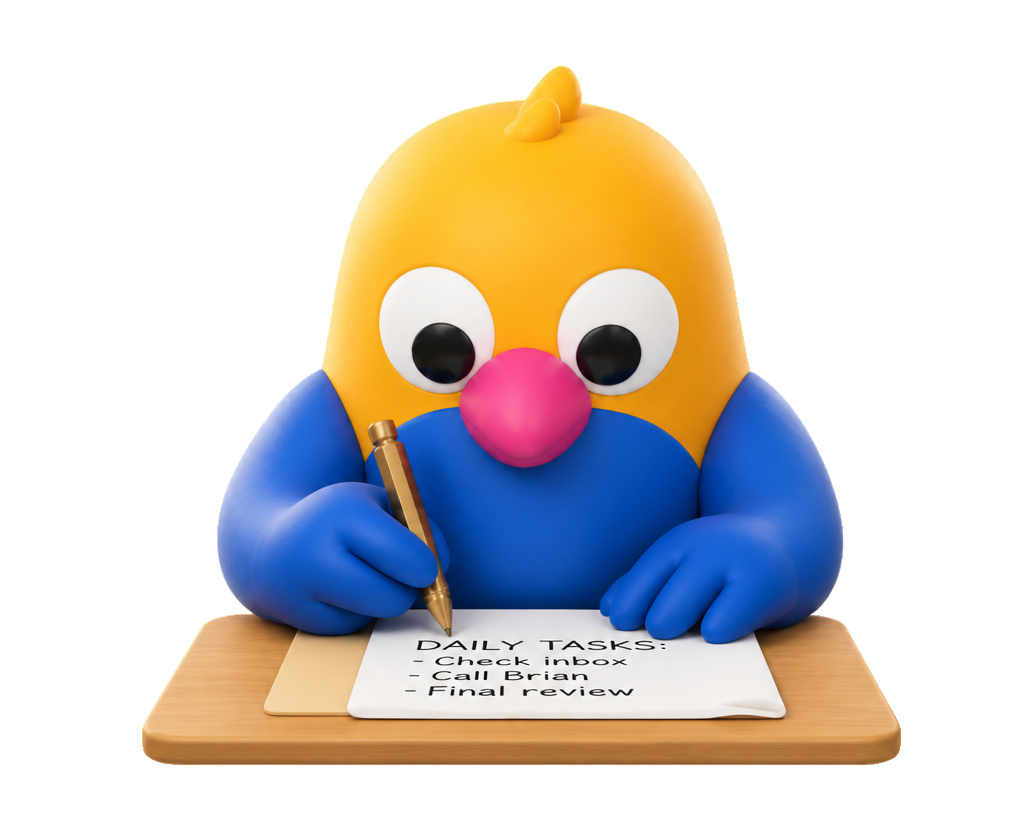
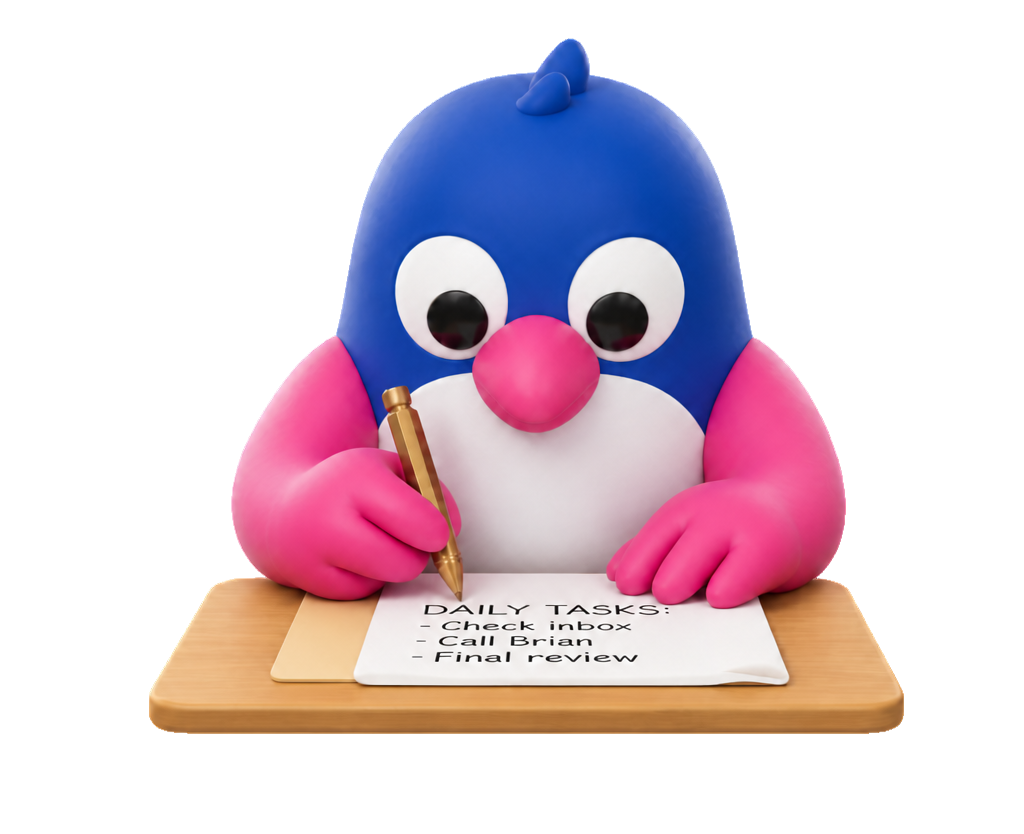
Fix registration mascot to match design (was the wrong asset)
Per feedback + a fresh check against node 54:3221 ("2. Registration -
Name"): the default mascot used across every registration step (Name,
Class, Batch, Group, and Set Password's own default state) has always
been the wrong pose/color — orange-head/blue-arms — when the design
actually specs a blue-head/pink-arms bird (still writing the same
"DAILY TASKS" checklist). That original asset was grabbed early in
this project before I was being careful about re-verifying each node
individually, and nothing since then had reason to double check it —
every subsequent registration screen just inherited it via the shared
RegistrationMascotCard component.

Diffed the freshly-fetched correct asset byte-for-byte against
mascot-check.png (previously modeled as a separate "success" mascot
pose for the Set Password screen's password-match state) — they're
pixel-identical. There was never a second, distinct "success" pose;
the difference I originally perceived between Password's default and
matched states was really just this same asset bug showing through
inconsistently (the default fetch used the wrong image, a later,
more careful fetch for the "success" state happened to get the right
one). Replaced assets/registration/mascot.png with the correct image,
updated its crop to the values the fresh fetch confirms (matching what
"success" already used), and removed the now-redundant mascotVariant
prop, mascot-check.png file, and its preload entry — one image, used
[…]

diff --git a/src/components/RegistrationMascotCard.tsx b/src/components/RegistrationMascotCard.tsx
@@ -7,11 +7,6 @@ import { resolveCrop } from '../onboarding/resolveCrop';
 import { colors, fonts, useScale } from '../theme/theme';
 
 const mascotImage = require('../../assets/registration/mascot.png');
-// The "everything checks out" pose (Figma node 77:2143, image520) used
-// once on "7. Registration - Set Pasword - Typing - Filled" (node
-// 54:2095) when both password fields are complete and match — a
-// genuinely different source image, not a recolor/crop of the default one.
-const mascotCheckImage = require('../../assets/registration/mascot-check.png');
 
 type Props = {
   title: string;
@@ -24,33 +19,34 @@ type Props = {
   // Set Pasword" (node 54:1870 etc.), which specs SemiBold — pass
   // "semiBold" there. Defaults to Bold to match every other screen.
   titleWeight?: 'bold' | 'semiBold';
-  // See mascotCheckImage above. Defaults to the usual writing-mascot pose.
-  mascotVariant?: 'default' | 'success';
 };
 
 // Mascot + speech-bubble question card shared by every registration step
-// (Figma nodes 54:3240 "2. Registration - Name" and 54:2318 "4.
-// Registration - Class" use the identical mascot/bubble geometry, just
-// with different title/subtitle copy) — factored out here so future
+// (Figma nodes 54:3240 "2. Registration - Name", 54:2318 "4. Registration
+// - Class", etc. use the identical mascot/bubble geometry, just with
+// different title/subtitle copy) — factored out here so future
 // registration screens reuse it instead of duplicating this layout.
-export default function RegistrationMascotCard({
-  title,
-  subtitle,
-  bubbleSize = 'default',
-  titleWeight = 'bold',
-  mascotVariant = 'default',
-}: Props) {
+//
+// The mascot image/crop below was re-verified against a fresh fetch of
+// node 54:3221 ("2. Registration - Name") — it's the blue-head/pink-arm
+// "writing a checklist" pose, not the earlier orange/blue mascot.png this
+// component originally shipped with. That earlier asset was simply wrong
+// (grabbed before this project was being careful about re-verifying each
+// node instead of assuming one early fetch generalized) — confirmed by
+// diffing it byte-for-byte against the asset a later, more careful fetch
+// used for "7. Registration - Set Pasword"'s password-match state
+// (previously modeled here as a separate `mascotVariant: 'success'`),
+// which turned out to be pixel-identical. There was never a second pose;
+// every registration screen's default mascot is this one.
+export default function RegistrationMascotCard({ title, subtitle, bubbleSize = 'default', titleWeight = 'bold' }: Props) {
   const scale = useScale();
   const isTall = bubbleSize === 'tall';
   const bubbleHeight = isTall ? 134 : 107;
-  const isSuccess = mascotVariant === 'success';
 
   const mascotCrop = resolveCrop(
-    isSuccess
-      ? { left: '-17.09%', top: '0%', width: '131.14%', height: '108.42%' }
-      : { left: '-16.37%', top: '-5.37%', width: '130.52%', height: '110.72%' },
+    { left: '-17.09%', top: '0%', width: '131.14%', height: '108.42%' },
     scale(56),
-    scale(54)
+    scale(55.166)
   );
 
   return (
@@ -64,13 +60,13 @@ export default function RegistrationMascotCard({
       <View
         style={{
           width: scale(56),
-          height: scale(54),
+          height: scale(55.166),
           borderRadius: scale(8),
           overflow: 'hidden',
         }}
       >
         <Image
-          source={isSuccess ? mascotCheckImage : mascotImage}
+          source={mascotImage}
           style={{
             position: 'absolute',
             left: mascotCrop.left,

diff --git a/src/screens/RegistrationPasswordScreen.tsx b/src/screens/RegistrationPasswordScreen.tsx
@@ -79,7 +79,6 @@ export default function RegistrationPasswordScreen({ onBack, onSave }: Props) {
               title="পাসওয়ার্ড সেট করো"
               subtitle="পরবর্তীতে সহজেই লগ ইন করতে পাসওয়ার্ড সেট করে নাও"
               titleWeight="semiBold"
-              mascotVariant={isSaveEnabled ? 'success' : 'default'}
             />
           </View>
 

diff --git a/src/onboarding/preload.ts b/src/onboarding/preload.ts
@@ -16,6 +16,5 @@ export const APP_IMAGE_MODULES = [
   require('../../assets/registration/group-science.png'),
   require('../../assets/registration/group-business.png'),
   require('../../assets/registration/group-humanities.png'),
-  require('../../assets/registration/mascot-check.png'),
   require('../../assets/confirmation/mascot-celebrate.png'),
 ];
